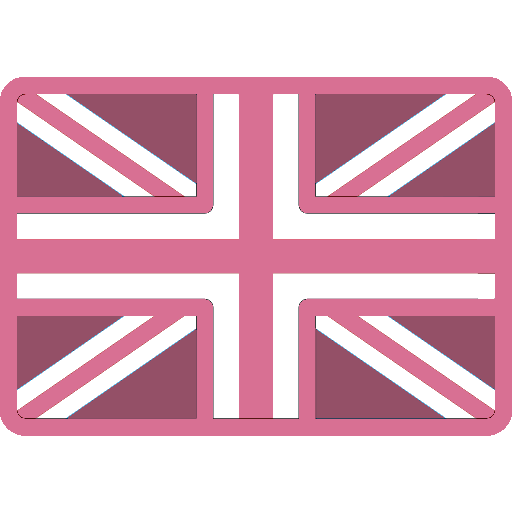
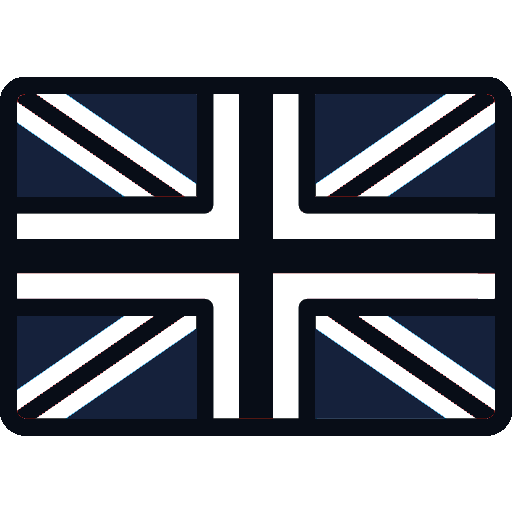
banderas en footer

diff --git a/src/components/footer/Footer.jsx b/src/components/footer/Footer.jsx
@@ -5,7 +5,7 @@ function Name(props) {
 
   let color;
   let textColor;
-  
+
   if (props.mode === "light") {
     textColor = "#f1ede3"
     color = "#555";
@@ -14,9 +14,9 @@ function Name(props) {
     textColor = "#080d17";
     color = "#d87093";
   }
-
+  
   return (
-    <div className="footContent" style={{ backgroundColor: color, color: textColor}}>
+    <div className="footContent" style={{ backgroundColor: color, color: textColor }}>
       <div className="container">
         <div className="row">
           <div className="col-sm-6 col-md-4 links">
@@ -29,6 +29,10 @@ function Name(props) {
                   Lorem Ipsum is simply dummy text of the printing and typesetting industry. Lorem Ipsum has been the industry's standard dummy text ever since the 1500s, when an unknown printer took a galley
                 </p>
               </ul>
+              <div className="col-md-12">
+                <img src={`../images/es-${props.mode}.png`}  width="35px"></img> 
+                <img src={`../images/eng-${props.mode}.png`} className="ml-2" width="35px"></img>
+              </div>
             </div>
           </div>
           <div className=" col-sm-6 col-md-4 logo">

diff --git a/src/App.js b/src/App.js
@@ -223,16 +223,6 @@ class App extends Component {
                       <li className="nav-item mr-3">
                         <Link to={`/contact/`} id="nemuIten5" className="navbar-brand lin" onClick={() => this.active(5)}><span>Contacto</span></Link>
                       </li>
-                      <li className="nav-item">
-                        <div className="row">
-                          <div className="col-12 col-md-6 pt-1">
-                            <img src={`../images/es-${this.state.mode}.png`} width="35px"></img>
-                          </div>
-                          <div className="col-12  col-md-6 pt-1">
-                            <img src={`../images/eng-${this.state.mode}.png`} width="35px"></img>
-                          </div>
-                        </div>
-                      </li>
                     </ul>
                   </div>
                 </div>
